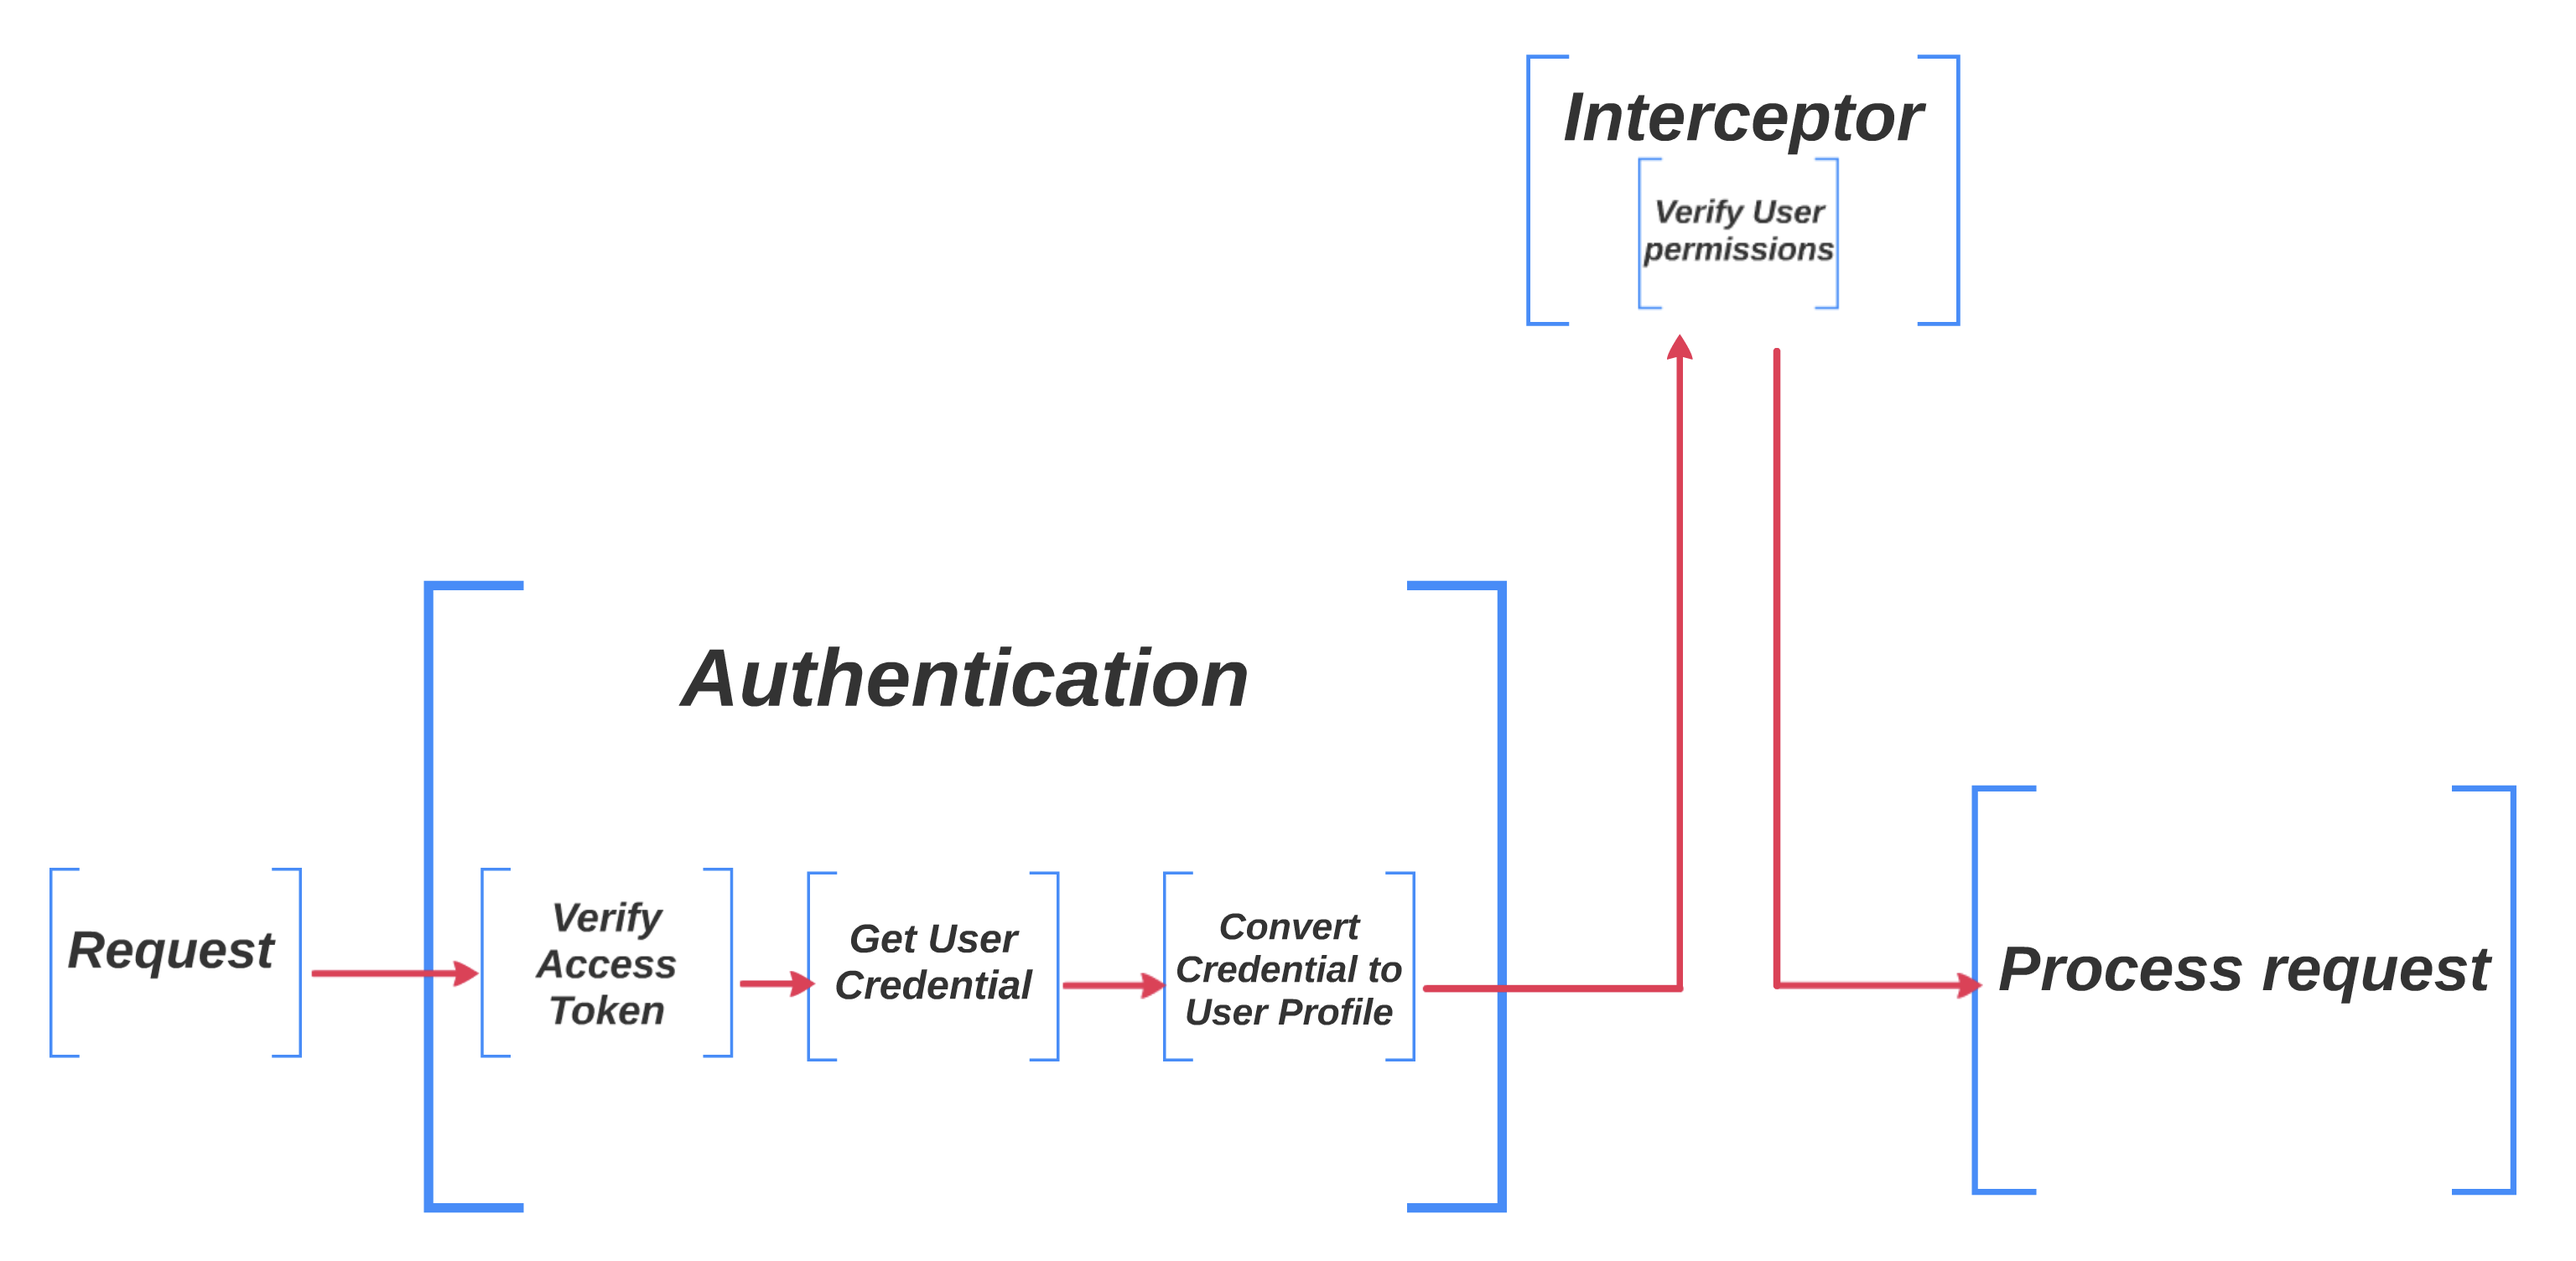
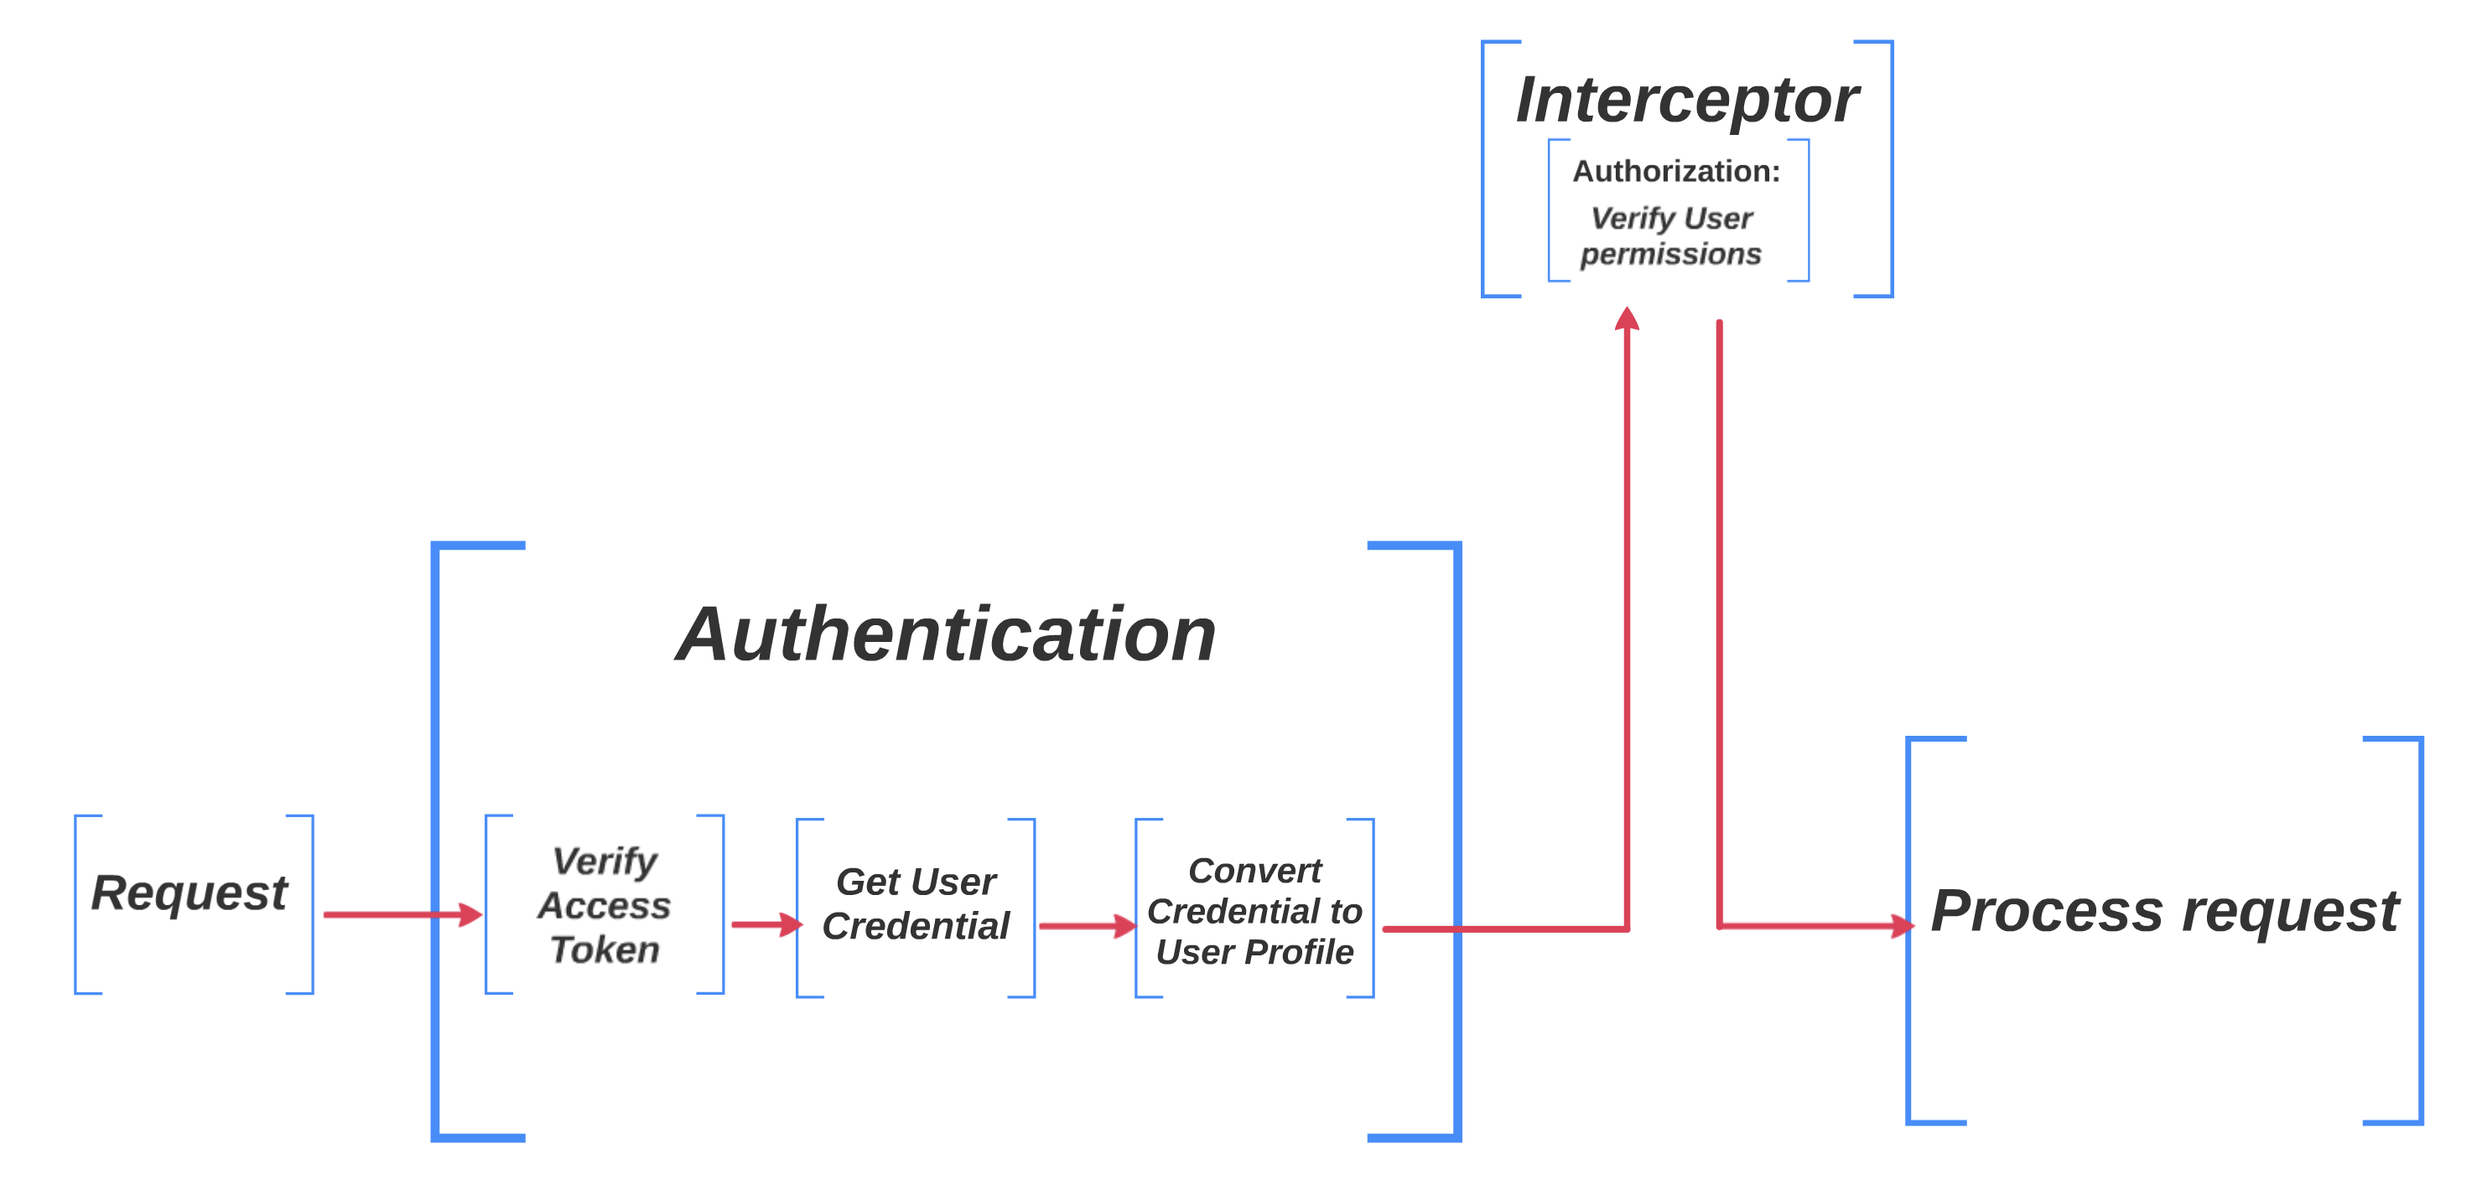
Update Pic

diff --git a/_posts/2019-06-05-building-an-online-game-with-loopback-4-pt4.md b/_posts/2019-06-05-building-an-online-game-with-loopback-4-pt4.md
@@ -73,7 +73,7 @@ The one in the bottom left is our self-defined authorization. It has three compo
   * JWTService: a service associate with JWTStrategy to generate and verify JWT.
 
 * Interceptors:
-  * AuthorizationInterceptor: a middle layer between API request and authentication that use UserPermissionsProvider to verify user's permission. You can find more information about LoopBack 4 Interceptor at [here](https://loopback.io/doc/en/lb4/Interceptors.html#order-of-invocation-for-interceptors).
+  * AuthorizationInterceptor: a middle layer comes after authentication that use UserPermissionsProvider to verify user's permission. You can find more information about LoopBack 4 Interceptor at [here](https://loopback.io/doc/en/lb4/Interceptors.html#order-of-invocation-for-interceptors).
 
 Here is a diagram to show you what will happen after an API call.
 
@@ -380,7 +380,7 @@ You can even use multiple strategies in one project; if needed.
 
 #### Interceptor
 
-Interceptor is a middle layer between API request and authentication. After the authentication strategy verified user's access token, interceptor will verify use's permission.
+Interceptor is a middle layer comes after authentication. After the authentication strategy verified user's access token, interceptor will verify use's permission.
 
 Run `lb4 interceptor` in your project root.
 
